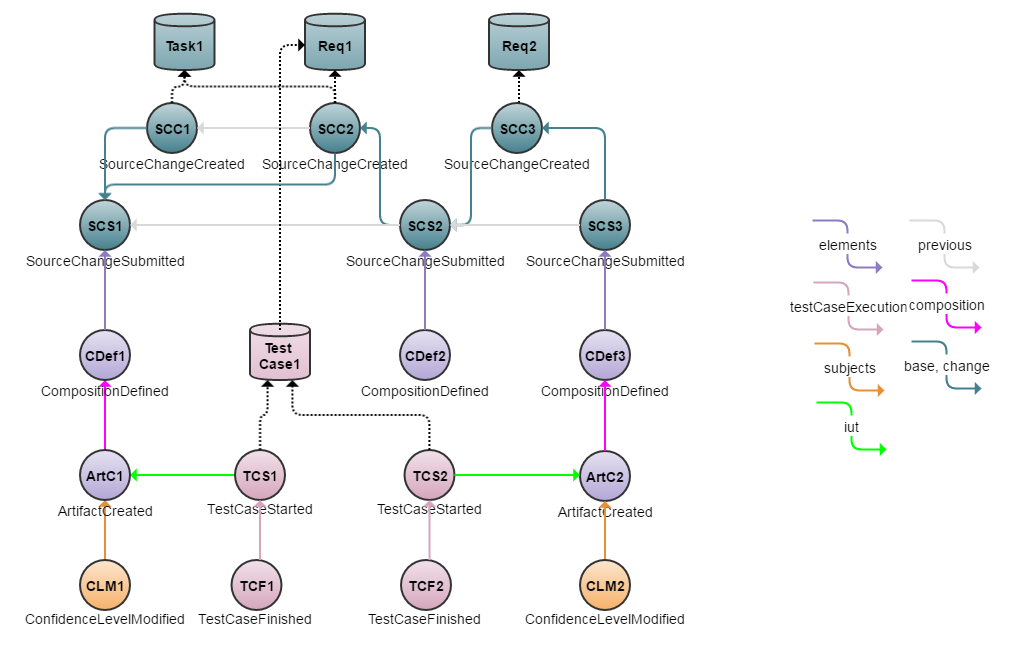
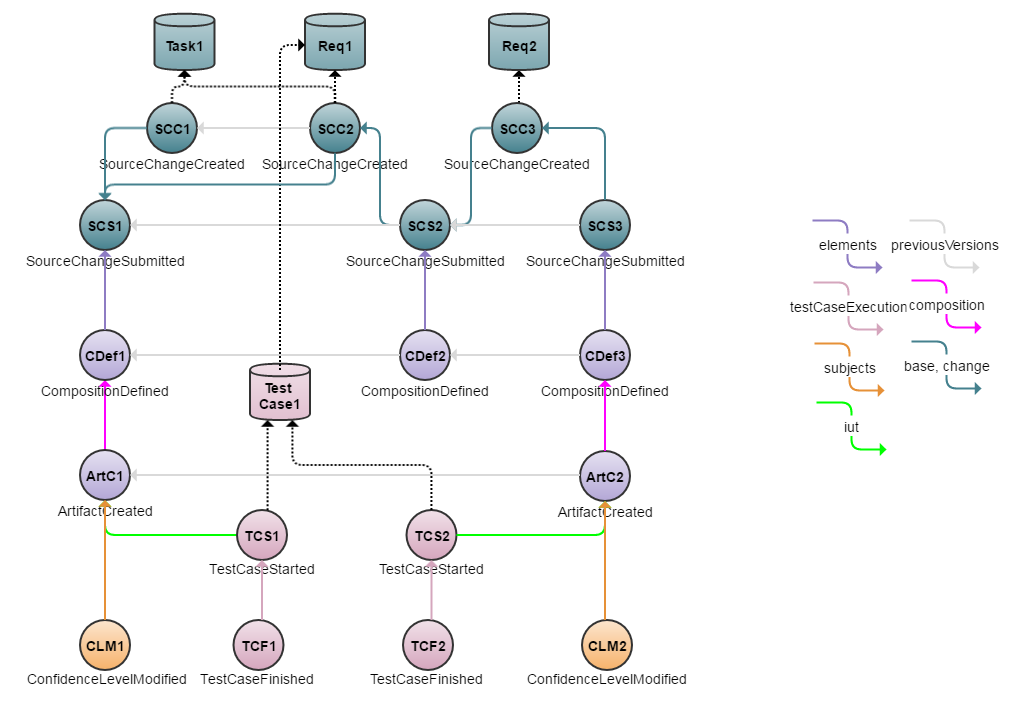
Added missing previousVersions and short discusson on its usage.

diff --git a/usage-examples/delivery-interface.md b/usage-examples/delivery-interface.md
@@ -42,7 +42,7 @@ Analysis of the events provided in this example (and the external data sources r
 
 Let's take a closer look at answering the last question by going through the process one step at a time.
 
-1. Identify the two artifact versions to be compared: __ArtC2__ and __ArtC1__.
+1. Identify the two artifact versions to be compared. Depending on the use case, the versions to be compared can either be explicit or implicit: "I want to compare __ArtC2__ and __ArtC1__" or "I want to compare __ArtC2__ to its previous version". In the latter case, __links.previousVersions__ can be traced to the object of interest.
 1. Build a list of constituent EiffelSourceChangeSubmittedEvents of the newer artifact (__ArtC2__):
    1. Identify the composition of the artifact (__CDef3__).
    1. Append any EiffelSourceChangeSubmittedEvents referenced via __links.elements__ (__SCS3__).
